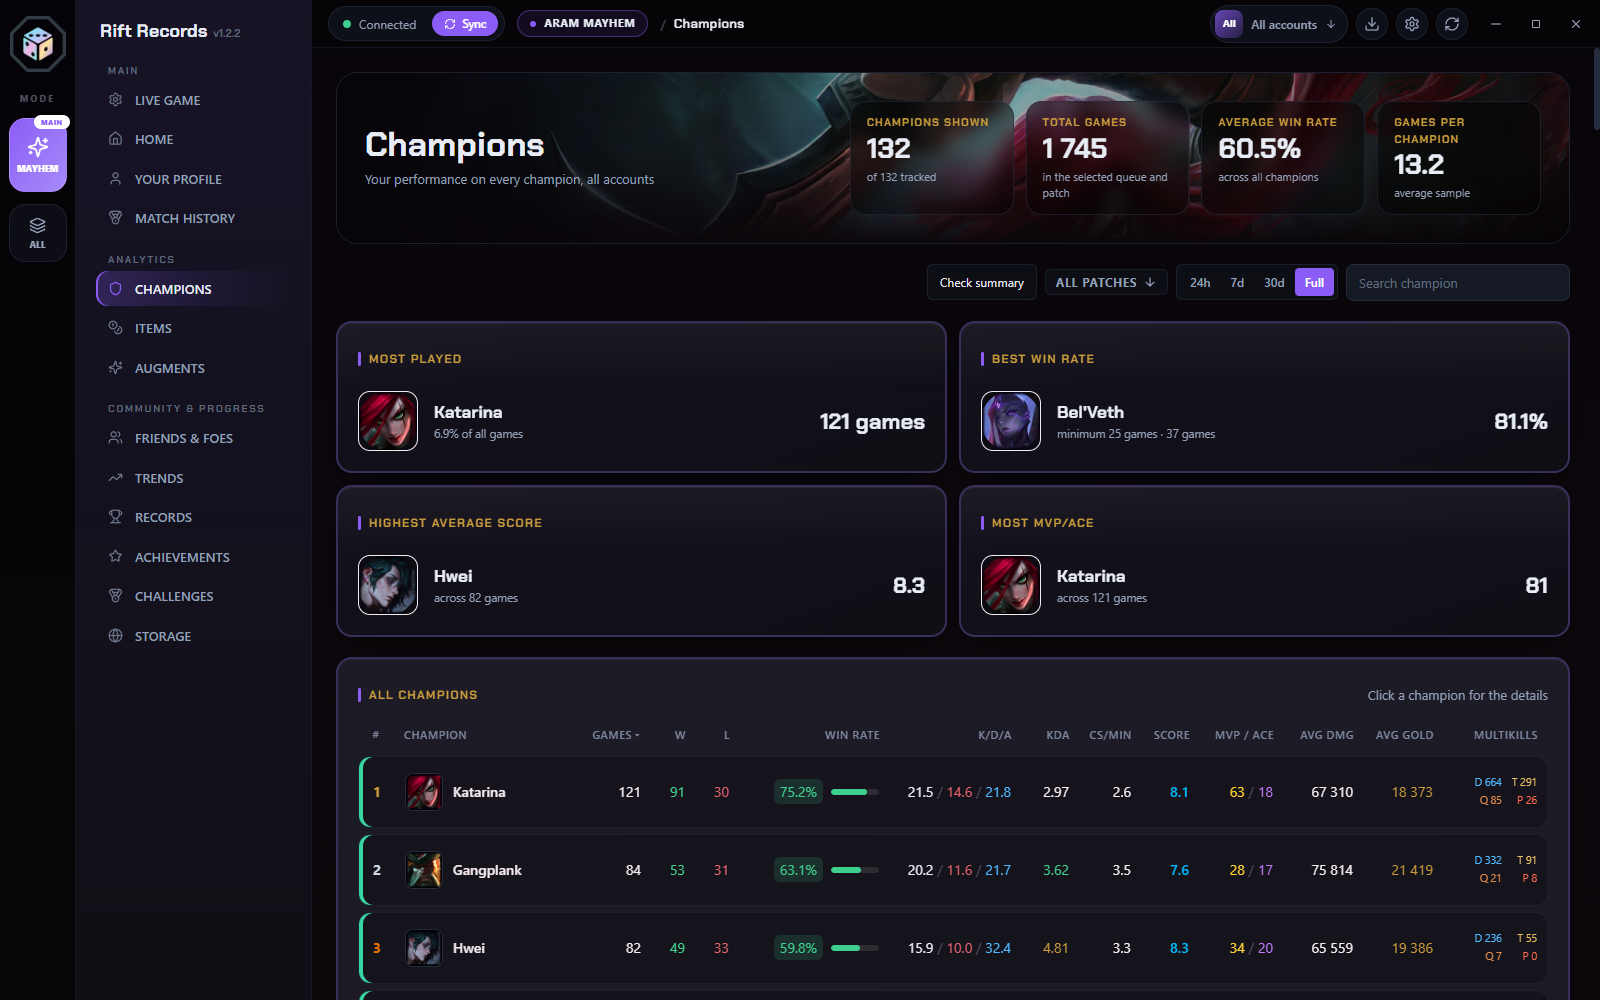
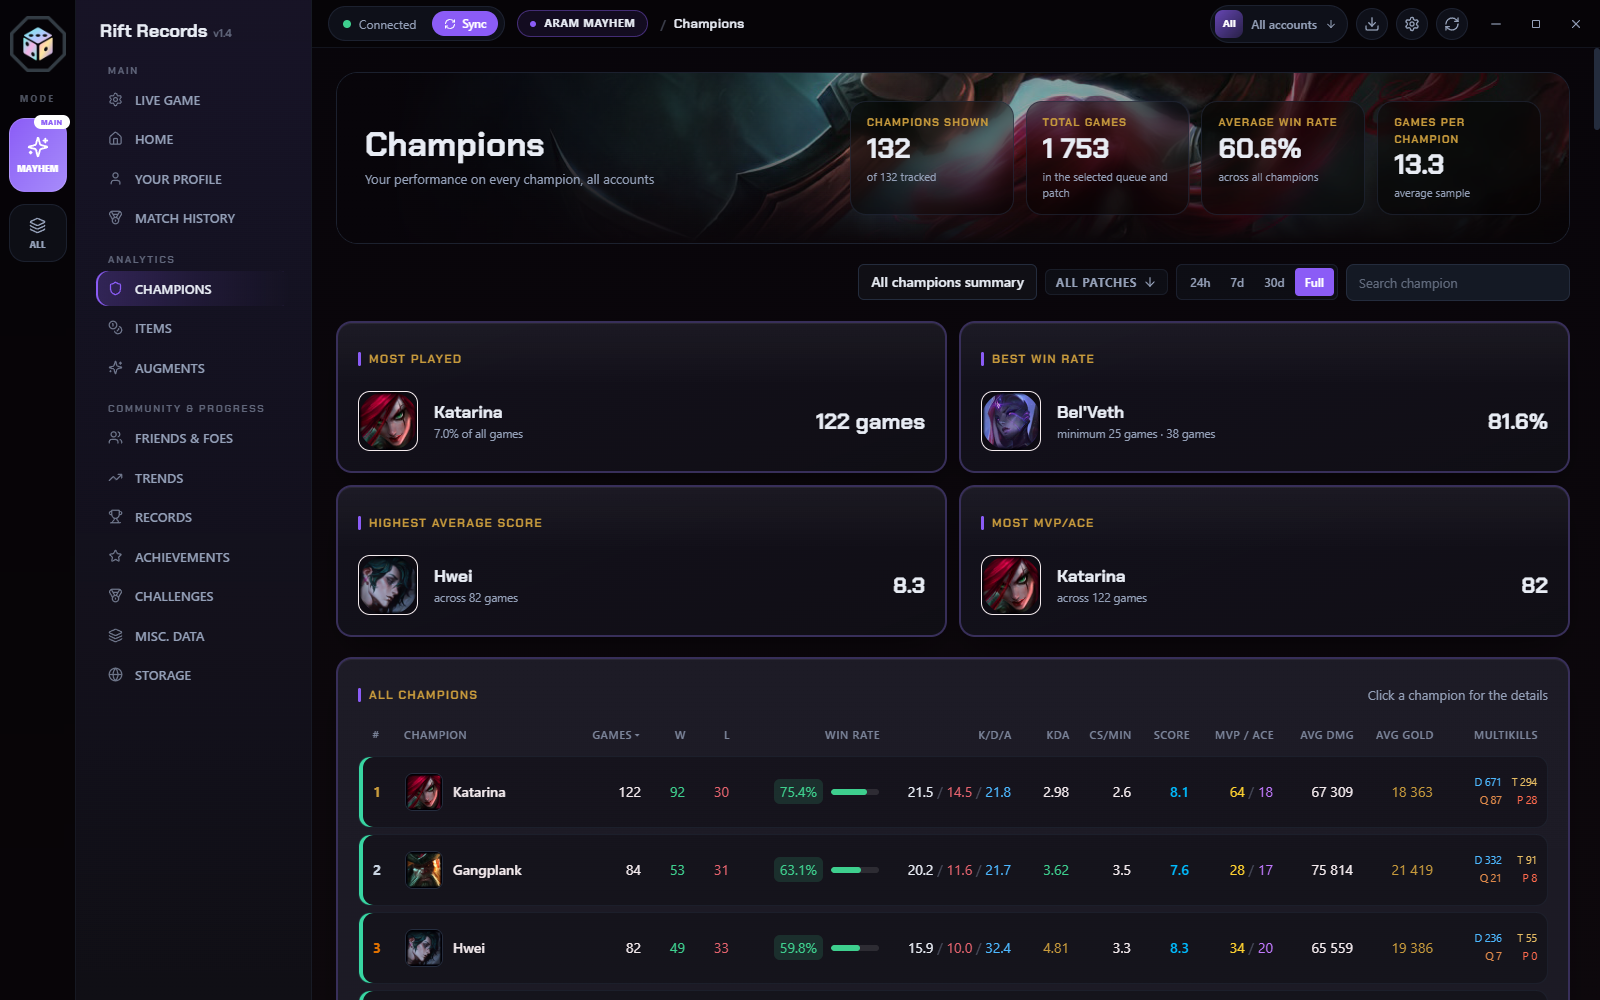
chore — release: v1.4.0

diff --git a/README.md b/README.md
@@ -6,6 +6,18 @@ A Windows desktop app that keeps your League of Legends match history on your ow
 
 ## Recent Changes
 
+**1.4.0**
+
+- **(NEW)** All champions summary, opened from the Champions tab
+- **(NEW)** Misc. Data tab: champions, augments and items of the other players in your games
+- **(NEW)** Timeline on ARAM Mayhem matches: gold and XP lead and a kill map
+- **(NEW)** Favorite matches, a setting to run Mayhem only, and a test view of post-game data on Live Game
+- **(IMPROVED)** Filters, sorting and search are remembered by default
+- **(IMPROVED)** Games played while the app was closed are all picked up on the next start
+- **(CHANGED)** Automatic backups are off unless you switch them on
+- **(REMOVED)** Manual add-account form, searched-accounts cleanup and the old themes
+- Various small fixes
+
 **1.3.1**
 
 - **(NEW)** Use default button for the database folder (Settings → Backups)
@@ -33,16 +45,6 @@ A Windows desktop app that keeps your League of Legends match history on your ow
 - **(IMPROVED)** Rebuilt About section in Settings
 - Various small fixes
 
-**1.1**
-
-- **(NEW)** Redesign theme with a grouped sidebar
-- **(NEW)** Achievements with tiers from Iron to Challenger, and challenges from the League client
-- **(IMPROVED)** Live Game: scoreboard, game flow charts, events, peak stats and scouting
-- **(IMPROVED)** Match history grouped by day and session, match page with a Stats tab
-- **(CHANGED)** Rebuilt Champions, Items, Augments, Friends & Foes, Trends, Records, Storage and Settings
-- **(REMOVED)** Third to Sixth themes
-- Various small fixes
-
 Full history: [CHANGELOG.md](CHANGELOG.md)
 
 ## Screenshots
@@ -60,11 +62,13 @@ Full history: [CHANGELOG.md](CHANGELOG.md)
 - **Live Game**: scoreboard, game flow charts, events and peak stats while a match is running
 - **Match history**: grouped by day and session, with a detailed page per match (items, runes, augments, per-player stats)
 - **Champions, Items, Augments, Runes**: win rates, KDA, damage, gold, multikills and detailed breakdowns
+- **Match timeline**: gold and XP lead and a kill map for ARAM Mayhem games
+- **Misc. Data**: what the other players in your games picked and built
 - **Scoring**: separate systems for ARAM, Summoner's Rift and Arena, with MVP/ACE badges and a score breakdown on hover
 - **Your Profile, Friends & Foes, Trends, Records**: habits, time-of-day patterns, who you play with and your best games
 - **Achievements and Challenges**: tiers from Iron to Challenger, plus challenges read from the League client
 - **Multiple accounts**: sync, show, hide or merge them
-- **Your data stays yours**: local database, automatic backups, export and import
+- **Your data stays yours**: local database, optional automatic backups, export and import
 - **Updates**: checks GitHub Releases on start, can install automatically, with download progress
 
 ## Install

diff --git a/CHANGELOG.md b/CHANGELOG.md
@@ -1,5 +1,21 @@
 # Changelog
 
+## 1.4.0 (2026-11-26)
+
+- New All champions summary, opened from the Champions tab
+- New Misc. Data tab: champions, augments and items of the other players in your games
+- New Timeline tab on ARAM Mayhem matches: gold and XP lead and a kill map, saved from the League client
+- New favorite matches in Match History
+- New setting to hide the All matches mode and run Mayhem only
+- New test view on Live Game of what the client reports after a game: end-of-game screen, mastery and honor
+- Filters, sorting and search are remembered by default, across more views
+- Automatic backups are now off unless you switch them on
+- Fixed games being lost when more than 20 were played while the app was closed
+- Fixed the win rate over time chart showing the oldest weeks instead of the newest
+- Fixed history links on Home
+- Better queue names
+- Removed the manual add-account form, the searched-accounts cleanup and the old themes
+
 ## 1.3.1 (2026-11-26)
 
 - New Use default button for the database folder under Backups
